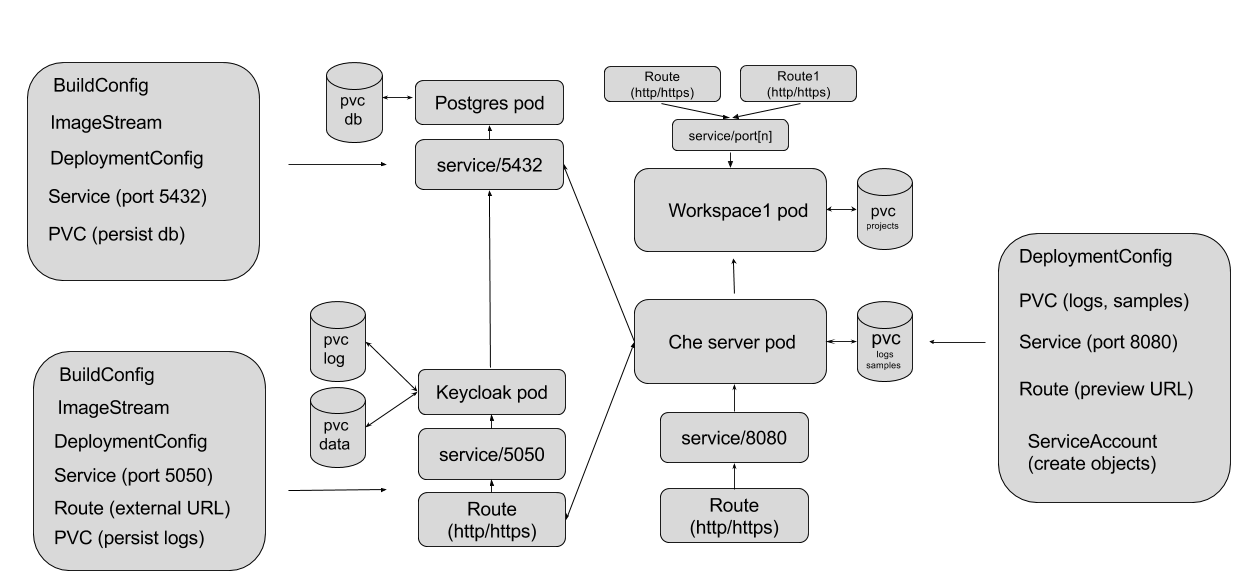
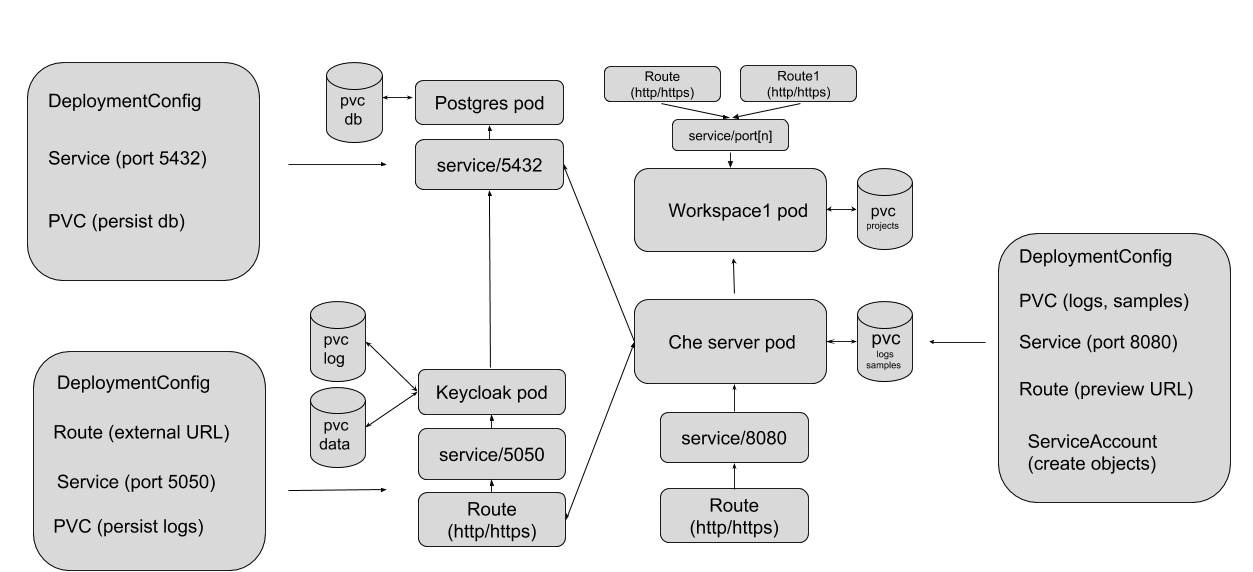
OSO deployment (#361)
* OSO deployment

* OSO deployment

diff --git a/src/main/pages/setup-openshift/openshift-multi-user.md b/src/main/pages/setup-openshift/openshift-multi-user.md
@@ -9,11 +9,11 @@ folder: setup-openshift
 
 ## System Requirements
 
-Your OpenShift node should have at least 3GB RAM available.
+Your OpenShift node should have at least 5GB RAM available - 3GB go to Che deployments and 2GB is reserved to run at least one workspace.
 
 ## Deployment diagram
 
-Deployment of a multi-user Che is a bit more complicated as Keycloak and Postgres images need to be provisioned with the right configuration. On top of that, pods need to start in a particular order: **Postgres-Keycloak-Che**. To accomplish this task, the deployment script makes use of OpenShift S2I build strategy - BuildConfigs and ImageStreams are created first. S2I builds grab official Keycloak and Postgres images, copy necessary configuration files that come with `eclipse/che-init` image and save resulting images as ImageStreams that are then referenced in corresponding DeploymentConfigs. When builds succeed, the script continues with deployment.
+The deployment script creates 3 DeploymentConfigs for Che, Postgres and Keycloak, as well as PVCs, services and routes (Che and Keycloak only). Once deployments are completed, a special service pod is started to configure Keycloak with realm, client and a default user. Client is provided with the right redirectUris and webOrigins. This pod gets deployed only in case an out-of-the-box Keycloak is used.
 
 {% include image.html file="diagrams/ocp_multi_user.png" %}
 
@@ -44,11 +44,15 @@ cd ${LOCAL_PATH}/instance/config/openshift/scripts
 
 ## MiniShift
 
-```
-export CHE_MULTIUSER=true
-./deploy_che.sh
+Make sure you have started MiniShift with `--memory=4096` or more.
 
+```bash
+export CHE_MULTIUSER=true
+export WAIT_FOR_CHE=true
+./deploy_che.sh
 ```
+
+
 ## OpenShift Container platform
 
 ```bash
@@ -58,6 +62,7 @@ export OPENSHIFT_TOKEN=<OCP_TOKEN> # it depends on authentication scheme for you
 export OPENSHIFT_ROUTING_SUFFIX=<ROUTING-SUFFIX> # e.g. yourDomain.router.com or b9ad.pro-us-east-1.openshiftapps.com for OpenShift Online Pro East Region
 export ENABLE_SSL=false # true by default. Set to false if you have self signed certs
 export OPENSHIFT_FLAVOR=ocp
+export WAIT_FOR_CHE=true
 ./deploy_che.sh
 ```
 
@@ -78,6 +83,39 @@ oadm policy add-cluster-role-to-user self-provisioner system:serviceaccount:ecli
 ## OpenShift Dedicated
 
 Instructions to deploy Che to OSD are identical to those for [OpenShift Container Platform](#openshift-container-platform)
+
+## OpenShift Online
+
+Below is a recommended way to deploy Eclipse Che multi-user flavor on OSO:
+
+```bash
+export CHE_MULTIUSER=true
+export OPENSHIFT_ENDPOINT=https://api.rh-us-east-1.openshift.com
+export OPENSHIFT_TOKEN=bLAa-4dWUaixiUieOeVdynAB1QDmaJzrazepHEF431c
+export CHE_INFRA_KUBERNETES_OAUTH__TOKEN=""
+export OPENSHIFT_ROUTING_SUFFIX=6923.rh-us-east-1.openshiftapps.com
+export OPENSHIFT_FLAVOR=ocp
+export IMAGE_PULL_POLICY=Always
+export CHE_OPENSHIFT_PROJECT=eclipse-che
+export CHE_INFRA_OPENSHIFT_PROJECT=eclipse-che
+export WAIT_FOR_CHE=true
+
+cd che/dockerfiles/init/modules/openshift/files/scripts
+
+echo "CHE_INFRA_KUBERNETES_PVC_QUANTITY: \"1Gi\"" >> che-config
+
+./deploy_che.sh
+```
+
+A few gotchas:
+
+* `CHE_OPENSHIFT_PROJECT` may be already used by another namespace. In this case, set it to have some unique value
+* `CHE_INFRA_OPENSHIFT_PROJECT` should be the same as `CHE_OPENSHIFT_PROJECT` which means all workspace objects will be created in the same s=namespace with Che server.
+This is a prerequisite to use service account rather than a token that may get expired or invalidated
+* You need to obtain and export `OPENSHIFT_TOKEN`. Deployment script will use it to login to your OSO account and deploy Che
+* `CHE_INFRA_KUBERNETES_OAUTH__TOKEN` should have an empty value. This way, `che` service account will be used to create workspace objects
+* `CHE_INFRA_KUBERNETES_PVC_QUANTITY`: use reasonable minimal values for your OSO account in order not to exceed quotas
+
 
 ## What's Next?
 

diff --git a/src/main/pages/setup-openshift/openshift-config.md b/src/main/pages/setup-openshift/openshift-config.md
@@ -8,7 +8,9 @@ folder: setup-openshift
 ---
 ## How It Works
 
-You can configure deployment of Che on OpenShift with env variables that are defined in `che-config` file. Either export env in your terminal, or edit this file directly. Once done, run the deployment script with `-c rollupdate` flag. Che deployment will be updated which automatically triggers a new deployment. You can also export envs in your environment, and the script will pick them up. It will only update Che server pod. This page focuses on some of the envs. You can either look at [Docker configuration page][docker-config] or [che.env](https://github.com/eclipse/che/blob/master/dockerfiles/init/manifests/che.env) file.
+You can configure deployment of Che on OpenShift with env variables that are defined in [`che-config`](https://raw.githubusercontent.com/eclipse/che/master/dockerfiles/init/modules/openshift/files/scripts/che-config) file. If you have downloaded only deployment script but need to configure your Che server, download config file that should be located in the same directory with the deployment script.
+
+Once done, run the deployment script with `-c rollupdate` flag. Che deployment will be updated which automatically triggers a new deployment. You can also export envs in your environment, and the script will pick them up. It will only update Che server pod. This page focuses on some of the envs. You can either look at [Docker configuration page][docker-config] or [che.env](https://github.com/eclipse/che/blob/master/dockerfiles/init/manifests/che.env) file.
 
 We use recreate strategy. When the initial Che pod is shut down, server forcefully stops all workspace pods. Users working in those workspace will see a notification that the workspace is not running anymore. It does not impact data persistence - all workspace project files mounted through PVCs.
 
@@ -72,7 +74,7 @@ To enable https for server and workspace routes, export the following environmen
 
 `ENABLE_SSL=true`
 
-When deploying to OSIO, HTTPS is enabled by default.
+When deploying to OCP, HTTPS is enabled by default.
 
 ## Scalability
 

diff --git a/src/main/pages/setup-openshift/openshift-single-user.md b/src/main/pages/setup-openshift/openshift-single-user.md
@@ -141,15 +141,20 @@ bash ./get-che.sh
 
 Instructions to deploy Che to OSD are identical to those for [OpenShift Container Platform](#openshift-container-platform)
 
-## Openshift.io
-
-Please note that deploying Che on [OpenShift.io](https://openshift.io) (OSIO) is only intended for Che developers and OSIO contributors. This is useful when a developer wants to test how changes will work on [OpenShift.io](https://openshift.io). If you are interested in using OpenShift.io you can [sign up](https://openshift.io/) for the service.
+## Openshift Online
 
 Use environment variables to set [deployment options][openshift-config]:
 
 ```shell
 export OPENSHIFT_TOKEN=<OSO_TOKEN> # Retrieve the OSO_TOKEN from https://console.starter-us-east-2.openshift.com/console/command-line
 export OPENSHIFT_FLAVOR=osio
+export CHE_INFRA_KUBERNETES_OAUTH__TOKEN=""
+export OPENSHIFT_ROUTING_SUFFIX=6923.rh-us-east-1.openshiftapps.com
+export OPENSHIFT_FLAVOR=ocp
+export IMAGE_PULL_POLICY=Always
+export CHE_OPENSHIFT_PROJECT=eclipse-che
+export CHE_INFRA_OPENSHIFT_PROJECT=eclipse-che
+export WAIT_FOR_CHE=true
 ```
 
 Download and run deployment script:
@@ -157,8 +162,12 @@ Download and run deployment script:
 ```shell
 DEPLOY_SCRIPT_URL=https://raw.githubusercontent.com/eclipse/che/master/dockerfiles/init/modules/openshift/files/scripts/deploy_che.sh
 curl -fsSL ${DEPLOY_SCRIPT_URL} -o ./get-che.sh
-bash ./get-che.sh
+CONFIG_FILE=https://raw.githubusercontent.com/eclipse/che/master/dockerfiles/init/modules/openshift/files/scripts/che-config
+curl -fsSL ${DEPLOY_SCRIPT_URL} -o che-config
+echo "CHE_INFRA_KUBERNETES_PVC_QUANTITY: \"1Gi\"" >> che-config
+bash get-che.sh
 ```
+Find more details about [deployment options](openshift-multi-user.html#openshift-online)
 
 ## Deployment Options and Configuration
 

diff --git a/src/main/pages/user-management/user-management.md b/src/main/pages/user-management/user-management.md
@@ -23,6 +23,11 @@ When Che is deployed on OpenShift or installed on Docker, either deployment scri
 * **Valid Redirect URIs** need to be the URL you use to access Che. For example, if your original `CHE_HOST` is `1.1.1.1` but you access Che at `myhost` which is an alias, you will see an error from Keycloak, saying that it's an invalid `redirectURI`. So, if this error occurs, go to Keycloak administration console and check valid Redirect URIs.
 * **Web Origins** - the same concerns Web Origins. An invalid web origin causes CORS error.
 
+## Keycloak Tokens
+
+By default, a user token gets expired after 30 mins. Keycloak admin can fine tune different realm settings related to Keycloak tokens:
+
+{% include image.html file="keycloak/keycloak_realm.png" %}
 
 ## User Federation
 
